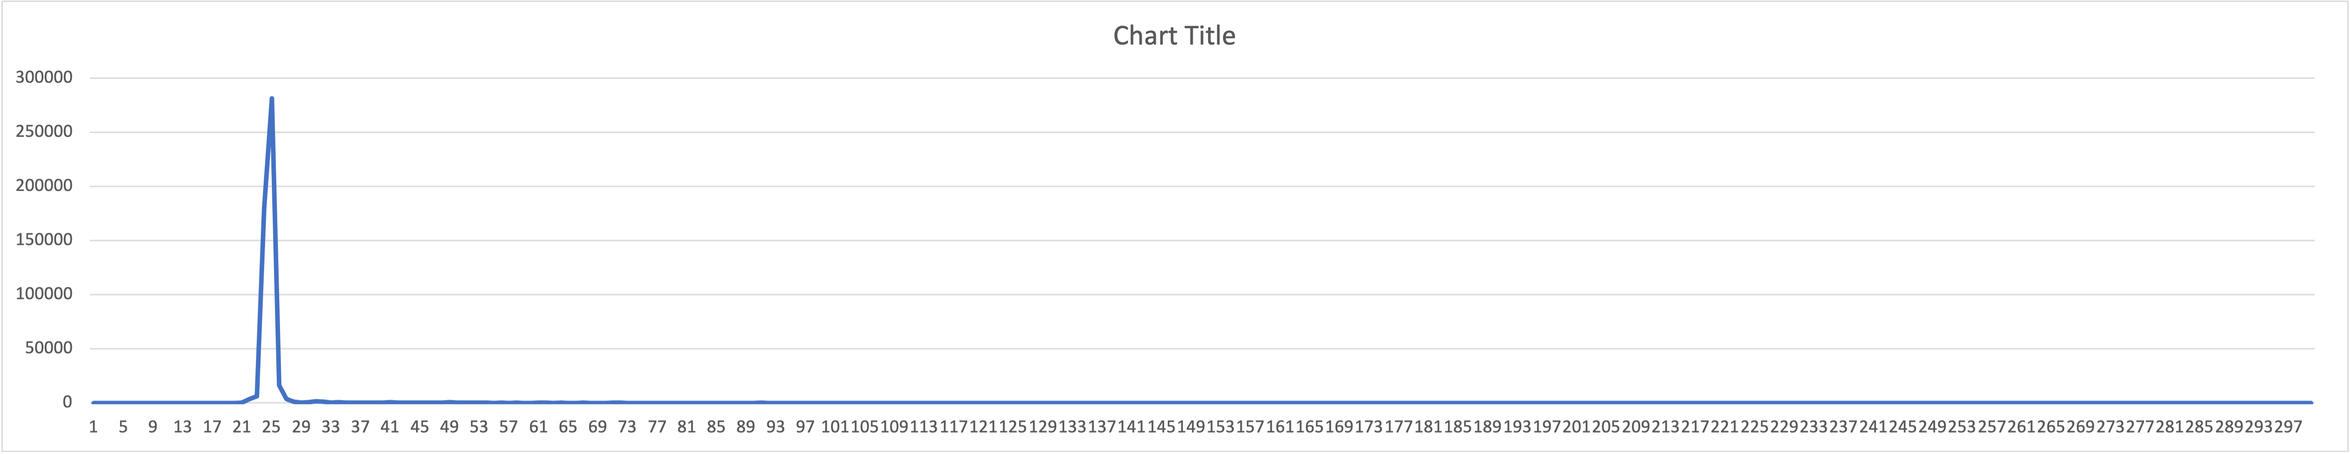
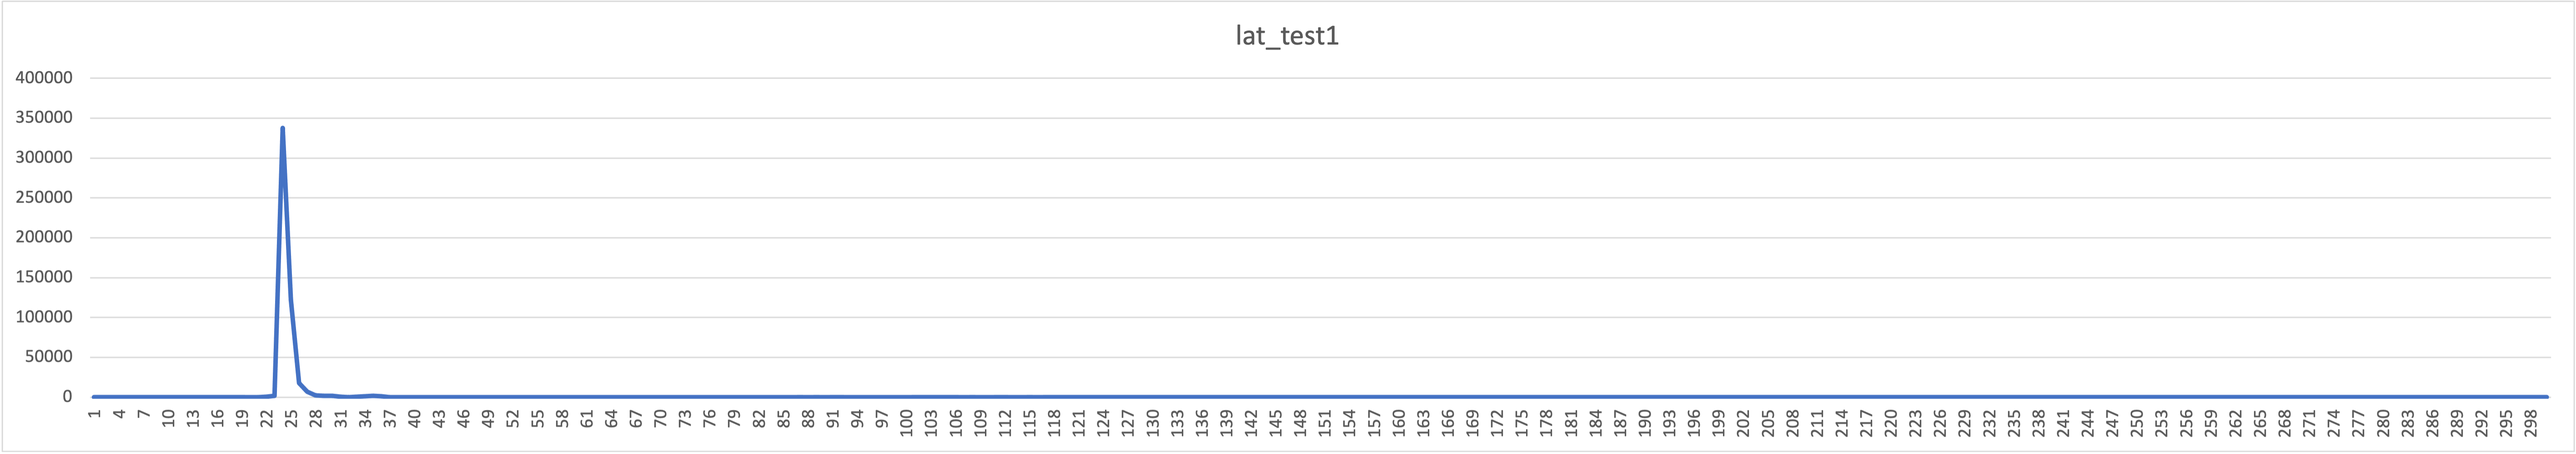
Updates per latest tools

diff --git a/um_lat_ping.c b/um_lat_ping.c
@@ -268,6 +268,24 @@ void hist_input(uint64_t in_sample)
   }
 }  /* hist_input */
 
+/* Get the latency (in ns) which "percentile" percent of samples are below.
+ * Returns -1 if not calculable (i.e. too many overflows). */
+int hist_percentile(double percentile)
+{
+  int i;
+  int needed_samples = (int)((double)hist_num_samples * percentile / 100.0);
+  int found_samples = 0;
+
+  for (i = 0; i < hist_num_buckets; i++) {
+    found_samples += hist_buckets[i];
+    if (found_samples > needed_samples) {
+      return (i+1) * hist_ns_per_bucket;
+    }
+  }
+
+  return -1.0;
+}  /* hist_percentile */
+
 void hist_print()
 {
   int i;
@@ -279,6 +297,10 @@ void hist_print()
   uint64_t average_sample = hist_sample_sum / (uint64_t)hist_num_samples;
   printf("hist_num_samples=%d, average_sample=%d,\n",
       hist_num_samples, (int)average_sample);
+
+  printf("Percentiles: 90=%d, 99=%d, 99.9=%d, 99.99=%d, 99.999=%d\n",
+      hist_percentile(90.0), hist_percentile(99.0), hist_percentile(99.9),
+      hist_percentile(99.99), hist_percentile(99.999));
 }  /* hist_print */
 
 

diff --git a/README.md b/README.md
@@ -93,28 +93,24 @@ variables are set up: LBM_LICENSE_INFO, LBM, LD_LIBRARY_PATH, and PATH.
 Here's an example of setting them up:
 ````
 export LD_LIBRARY_PATH LBM_LICENSE_INFO LBM PATH
-
 LBM_LICENSE_INFO="Product=LBM,UME,UMQ,UMDRO:Organization=UM RnD sford (RnD):Expiration-Date=never:License-Key=xxxx xxxx xxxx xxxx"
-
 # Path to the install directory for the UM platform.
 LBM="/home/sford/UMP_6.14/Linux-glibc-2.17-x86_64"
-
-if [ -z "$LD_LIBRARY_PATH" ]
-  then LD_LIBRARY_PATH="$LBM/lib"
-  else LD_LIBRARY_PATH="$LBM/lib:$LD_LIBRARY_PATH"
-fi
-
+LD_LIBRARY_PATH="$LBM/lib"
 PATH="$LBM/bin:$PATH"
 ````
 
 ### REQUIREMENTS
 
-1. 5 Linux-based hosts (X86, 64-bit).
+1. 3 Linux-based hosts (X86, 64-bit).
 16 gigabytes or more memory.
-At least one host must have a fast disk.
+One host should have a fast disk.
 These should be "bare metal" machines, NOT virtual machines.
-2. C compiler (gcc) and related tools.
-3. Ultra Messaging version 6.14, including development files (lbm.h,
+2. 10-gigabit network.
+For the lowest latency, a kernel-bypass network driver is recommended.
+For example, Solarflare NIC and Onload driver.
+3. C compiler (gcc) and related tools.
+4. Ultra Messaging version 6.14, including development files (lbm.h,
 libraries, etc.).
 
 See [Test Hardware](#informatica-test-hardware) for details of Informatica's
@@ -132,13 +128,10 @@ CPUs that are "close" to the NIC.
 See [Choose CPUs](https://github.com/UltraMessaging/um_perf#choose-cpus)
 for advice on how to determine which CPUs are closest to the NIC.
 
-On our test systems, CPU numbers 4 and 12 are the closest.
-
-The "um_lat_ping" and "um_lat_pong" tools generally have two threads
-during normal execution.
-In the demonstrations that follow, the "taskset" command is used to
-set affinity for the "main" thread, and the "-a" command-line option
-is used to set affinity for the "context" thread.
+On our test systems, CPU numbers 4 and 12 are the closest,
+so you will see those CPU numbers referenced in the example commands
+("-A" and "-a" options for um_lat_ping, "-a" for um_lat_pong).
+You should substitute your optimal CPUs.
 
 ### UPDATE CONFIGURATION FILE
 
@@ -181,9 +174,7 @@ Here is an excerpt:
 Search this file for "10.29" to find all lines that contain a network address.
 Change them for your network.
 
-Search this file for "239" to find all lines that contain multicast groups,
-and "10.29" for other site-specific IPs.
-
+Search this file for "239" to find all lines that contain multicast groups.
 We use multicast groups "239.101.3.xx".
 Change those to the group provided by your network admins.
 
@@ -200,6 +191,12 @@ We recommend conducting a configuration workshop with Informatica.
 
 ## TEST STREAMING
 
+These tests are conducted with the following parameters:
+* Publish rate: 50,000 msgs/sec.
+* Message size: 24 bytes.
+* Number of messages: 500,000 (preceded by 5 "warmup" messages).
+
+
 ### KERNEL DRIVER
 
 This test uses Solarflare NIC but not Onload.
@@ -209,53 +206,54 @@ Just the regular kernel network driver is used.
 
 Enter:
 ````
-taskset -c 4 ./um_lat_pong -x um.xml -a 12
+./um_lat_pong -s f -x um.xml -a 12 -E
 ````
 
 #### System 2 (ping)
 
 ````
-taskset -c 4 ./um_lat_ping -a 12 -x um.xml -m 24 -n 500000 -r 50000 -w 5,5 -H 300,1000 >ping.log; tail ping.log
+./um_lat_ping -s f -A 4 -a 12 -x um.xml -m 24 -n 500000 -r 50000 -w 5,5 -H 300,1000 >ping.log; tail ping.log
 ````
 
 Here's a sample of the output:
 ````
-Core-9941-2212: specified smart source retention buffer count of 101000 will be increased to the next highest power of two: 131072
-Core-10403-150: Context (0x1e32540) created with ContextID (2670192184) and ContextName [(NULL)]
-Core-9941-2212: specified smart source retention buffer count of 101000 will be increased to the next highest power of two: 131072
-0
-0
-0
-0
-0
-0
-o_histogram=300,1000, hist_overflows=0, hist_min_sample=20803, hist_max_sample=90719,
-hist_num_samples=500000, average_sample=24320,
-actual_sends=500000, duration_ns=9999983930, result_rate=49999.980350, global_max_tight_sends=8, max_flight_size=500004
+...
+o_histogram=300,1000, hist_overflows=0, hist_min_sample=19991, hist_max_sample=115171,
+hist_num_samples=500000, average_sample=24134,
+Percentiles: 90=25000, 99=34000, 99.9=51000, 99.99=83000, 99.999=113000
+actual_sends=500000, duration_ns=9999983492, result_rate=49999.982540, global_max_tight_sends=6, max_flight_size=500004
 Rcv: num_rcv_msgs=500004, num_rx_msgs=0, num_unrec_loss=0,
 ````
 
-This demonstrates 24320 nanoseconds (24.3 microseconds) round-trip latency.
+This demonstrates 24,134 nanoseconds (24.1 microseconds) round-trip latency.
 A reasonable approximation of the one-way latency is simply half that: 12.1
 microseconds.
 
+Note the percentiles, with 99.999% of samples being below 113,000 nanoseconds.
+We will see less jitter using Onload.
+
 #### Histogram
 
-To get percentiles, the "um_lat_pong" tool maintains a histogram of
-latencies.
 The "-H 300,1000" command-line option tells the tool to use 300 buckets with
 1000 nanoseconds for each bucket.
 Thus, the "ping.log" contains 300 lines, with each line indicating the number
 of samples with latencies within that bucket's range.
-For example, in the above test run, the 25th histogram line
+For example, in the above test run, the 24th histogram line
 is:
 ````
-281488
+337551
 ````
-This means that of the 500,000 round-trip measurements, 281,488 were between 24.9 and 25.0 microseconds.
+This means that of the 500,000 round-trip measurements, 337,551 were between 24.0 and 24.999 microseconds.
 
 I imported the 300 lines into Excel and created the following chart:
 ![latency chart 1](lat_test1.png)
+
+Let's change the Y axis to logarithmic to reveal the latency outliers:
+![latency chart 1 logarithmic](lat_test1_log.png)
+Remember that a logarithmic scale greatly exaggerates small values.
+For example, the spike at bucket 113 only has a value of 6, meaning that only 6 of 500,000 round trips had
+latency between 112,000 and 113,000 nanoseconds.
+
 
 ### ONLOAD DRIVER
 
@@ -267,44 +265,41 @@ bypassing the kernel.
 
 Enter:
 ````
-EF_POLL_USEC=-1 taskset -c 4 onload ./um_lat_pong -x um.xml -a 12
+onload ./um_lat_pong -s f -x um.xml -a 12 -E
 ````
 
 #### System 2 (ping)
 
 ````
-EF_POLL_USEC=-1 taskset -c 4 .onload ./um_lat_ping -a 12 -x um.xml -m 24 -n 500000 -r 50000 -w 5,5 -H 300,1000 >ping.log; tail ping.log
+onload ./um_lat_ping -s f -A 4 -a 12 -x um.xml -m 24 -n 500000 -r 50000 -w 5,5 -H 300,1000 >ping.log; tail ping.log
 ````
 
 Here's a sample of the output:
 ````
-oo:um_lat_ping[17899]: Using OpenOnload 7.0.0-pON11504 [4]
-oo:um_lat_ping[17899]: Copyright 2006-2019 Solarflare Communications, 2002-2005 Level 5 Networks
-Core-7911-1: Onload extensions API has been dynamically loaded
-Core-9941-2212: specified smart source retention buffer count of 101000 will be increased to the next highest power of two: 131072
-Core-10403-150: Context (0x27be120) created with ContextID (4063600122) and ContextName [(NULL)]
-Core-9941-2212: specified smart source retention buffer count of 101000 will be increased to the next highest power of two: 131072
-0
-0
-0
-0
-0
-0
-o_histogram=300,1000, hist_overflows=0, hist_min_sample=8188, hist_max_sample=30437,
-hist_num_samples=500000, average_sample=8537,
-actual_sends=500000, duration_ns=9999980898, result_rate=49999.995510, global_max_tight_sends=1, max_flight_size=500004
-Rcv: num_rcv_msgs=500004, num_rx_msgs=0, num_unrec_loss=0, 
+...
+o_histogram=300,1000, hist_overflows=0, hist_min_sample=10782, hist_max_sample=66451,
+hist_num_samples=500000, average_sample=13243,
+Percentiles: 90=13000, 99=14000, 99.9=23000, 99.99=28000, 99.999=32000
+actual_sends=500000, duration_ns=9999981122, result_rate=49999.994390, global_max_tight_sends=1, max_flight_size=500004
+Rcv: num_rcv_msgs=500004, num_rx_msgs=0, num_unrec_loss=0,
 ````
 
-This demonstrates 8537 nanoseconds (8.5 microseconds) round-trip latency.
-A reasonable approximation of the one-way latency is simply half that: 4.25
+This demonstrates 13,243 nanoseconds (13.2 microseconds) round-trip latency.
+A reasonable approximation of the one-way latency is simply half that: 6.6
 microseconds.
+This is a significant improvement over the kernel driver.
+But also look at the percentiles.
+Onload greatly reduces the latency outliers.
 
 #### Histogram
 
 Here's the Excel chart:
 ![latency chart 2](lat_test2.png)
 
+And here's the same chart with a logarithmic Y axis to emphasize outliers:
+![latency chart 2](lat_test2_log.png)
+
+Compared to the kernel results, Onload greatly reduces latency outliers.
 
 ## TEST PERSISTENCE
 
@@ -313,13 +308,13 @@ TBD.
 
 ## MEASUREMENT OUTLIERS
 
-The SmartSource transport code is written to provide a very constant
-execution time.
+The UM transport code used with these tests provide a very constant
+execution time per message.
 Dynamic memory (malloc/free) is not used during message transfer.
 There is very little cause for measurement outliers
-(jitter) in the SmartSource code itself.
+(jitter) in the UM code itself.
 
-However, the measurements made at Informatica show significant outliers.
+However, the measurements made at Informatica show outliers.
 Two environmental factors cause these outliers:
 * Interruptions.
 * Memory contention and cache invalidation.
@@ -367,27 +362,29 @@ All the latency calculations are done in the "ping" tool.
 
 The um_lat_ping tool prints a brief help when the "-h" flag is supplied:
 ````
-Usage: um_lat_ping [-h] [-a affinity_cpu] [-c config] [-g] [-H hist_num_buckets,hist_ns_per_bucket] [-l linger_ms] [-m msg_len] [-n num_msgs] [-p persist_mode] [-r rate] [-w warmup_loops,warmup_rate] [-x xml_config]
+Usage: um_lat_ping [-h] [-A affinity_src] [-a affinity_rcv] [-c config] [-g] [-H hist_num_buckets,hist_ns_per_bucket] [-l linger_ms] [-m msg_len] [-n num_msgs] [-p persist_mode] [-R rcv_thread] [-r rate] [-s spin_method] [-w warmup_loops,warmup_rate] [-x xml_config]
 where:
   -h : print help
-  -a affinity_cpu : bitmap for CPU affinity for send thread [-1]
+  -A affinity_src : CPU number (0..N-1) for send thread (-1=none) [-1]
+  -a affinity_rcv : CPU number (0..N-1) for receive thread (-1=none) [-1]
   -c config : configuration file; can be repeated []
   -g : generic source [0]
   -H hist_num_buckets,hist_ns_per_bucket : send time histogram [0,0]
   -l linger_ms : linger time before source delete [1000]
   -m msg_len : message length [0]
   -n num_msgs : number of messages to send [0]
-  -p ''|r|s : persist mode (empty=streaming, r=RPP, s=SPP) []
+  -p persist_mode : '' (empty)=streaming, 'r'=RPP, 's'=SPP []
+  -R rcv_thread : '' (empty)=main context, 'c'=separate context, 'x'=XSP []
   -r rate : messages per second to send [0]
+  -s spin_method : '' (empty)=no spin, 'f'=fd mgt busy, 'p'=proc events []
   -w warmup_loops,warmup_rate : messages to send before measurement [0,0]
   -x xml_config : XML configuration file []
 ````
 
 You can modify send rate, message length, number of messages, etc.
 
-This tool has two "hot" threads: main and context.
-The main thread sends messages,
-and the context thread receives the reflected messages.
+This tool has two "hot" threads: sender (main) and
+receiver (configurable between context or XSP).
 
 Each message is loaded with a nanosecond-resolution timestamp.
 When the reflected message is received, a new timestamp is
@@ -401,8 +398,9 @@ The main thread sends messages using a busy-looping algorithm.
 This evenly spaces the messages, even at high message rates.
 It also consumes 100% of the CPU that it is running on.
 
-The context thread is also configured to do busy looping
-via the configuration option:
+The receive thread can be configured to do busy looping
+via the command-line option "-s f",
+which tells the tool to add the configuration option:
 ````
 <option name="file_descriptor_management_behavior" default-value="busy_wait"/>
 ````
@@ -416,34 +414,38 @@ This exercises the desired number of ping/pong loops without accumulating
 statistics.
 This prevents the statistics from being artificially increased due to
 OS and CPU startup issues, like demand paging and cache misses.
-We have found that a small number like 5 suffices.
+We have found that a small number like 5 is usually enough.
 
 
 ### UM_LAT_PONG.C
 
 The um_lat_pong tool prints a brief help when the "-h" flag is supplied:
 ````
-Usage: um_lat_pong [-h] [-a affinity_cpu] [-c config] [-E] [-g] [-p persist_mode] [-x xml_config]
+Usage: um_lat_pong [-h] [-a affinity_rcv] [-c config] [-E] [-g] [-p persist_mode] [-R rcv_thread] [-s spin_method] [-x xml_config]
 where:
   -h : print help
-  -a affinity_cpu : CPU number (0..N-1) for receive thread [-1]
+  -a affinity_rcv : CPU number (0..N-1) for receive thread (-1=none) [-1]
   -c config : configuration file; can be repeated []
   -E : exit on EOS [0]
   -g : generic source [0]
-  -p ''|r|s : persist mode (empty=streaming, r=RPP, s=SPP) []
+  -p persist_mode : '' (empty)=streaming, 'r'=RPP, 's'=SPP []
+  -R rcv_thread : '' (empty)=main context, 'c'=separate context, 'x'=XSP []
+  -s spin_method : '' (empty)=no spin, 'f'=fd mgt busy, 'p'=proc events []
   -x xml_config : configuration file []
 ````
 
-This tool has one "hot" thread: context.
-The main thread initializes the tool and then sleeps forever.
+This tool has one "hot" thread: receiver
+(configurable between context or XSP).
+The main thread initializes and then sleeps forever.
 All the work of receiving messages and reflecting them back is 
-done in the context thread.
+done in the receiver thread.
 
 By default, the tool uses Smart Sources for sending messages.
 The "-g" command-line option switches to generic sources.
 
-The context thread is configured to do busy looping
-via the configuration option:
+The receive thread can be configured to do busy looping
+via the command-line option "-s f",
+which tells the tool to add the configuration option:
 ````
 <option name="file_descriptor_management_behavior" default-value="busy_wait"/>
 ````
